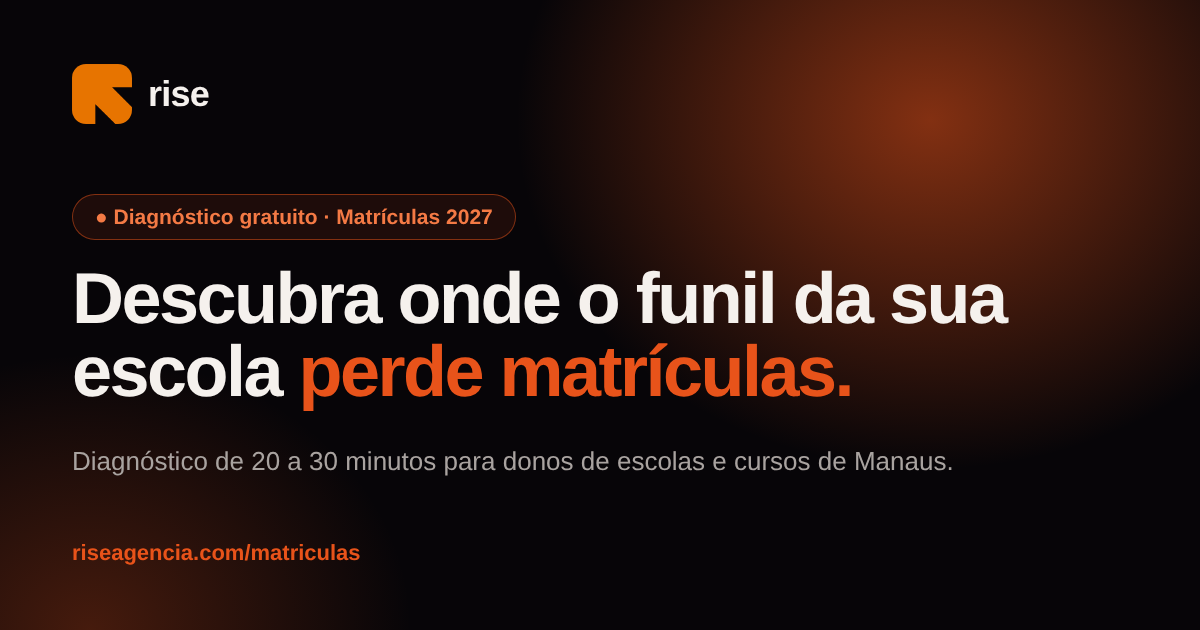
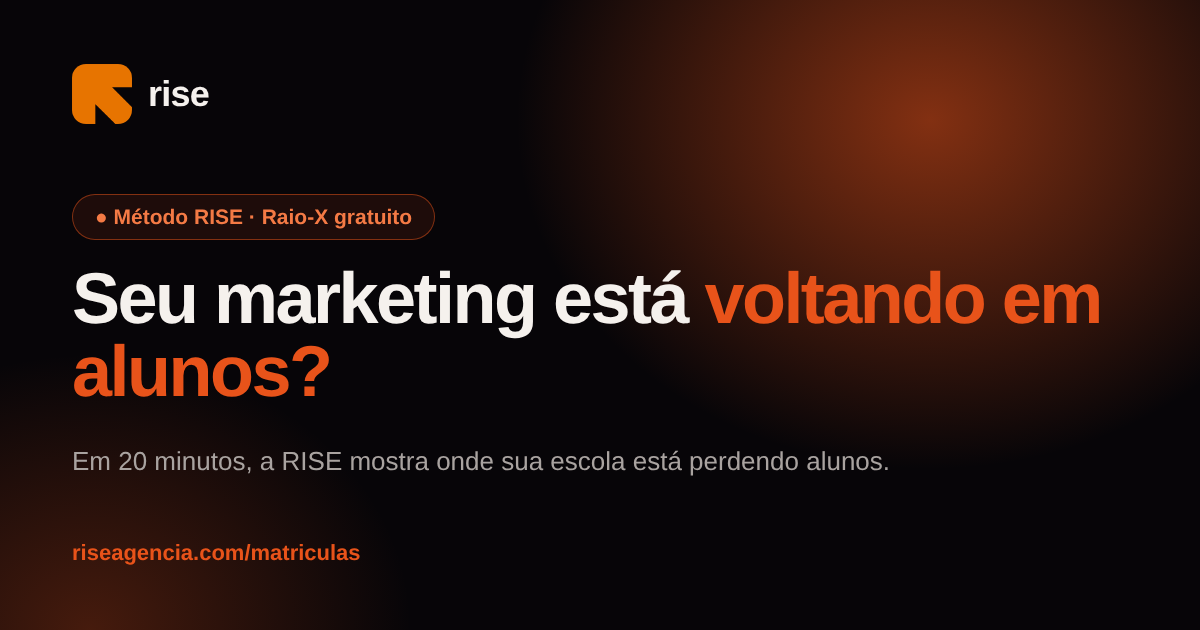
Matrículas: remove seções repetidas, foto do André no formulário e prévia (OG) nova (#28)
Claude-Session: https://claude.ai/code/session_015gBSKCngSTRmqeM1JmA279

Changed region(s): [[0.0617, 0.4222, 0.925, 0.6635], [0.0617, 0.6937, 0.8017, 0.754], [0.0925, 0.3317, 0.4317, 0.3619]]

diff --git a/matriculas/index.html b/matriculas/index.html
@@ -11,17 +11,17 @@
 <meta property="og:site_name" content="RISE">
 <meta property="og:locale" content="pt_BR">
 <meta property="og:url" content="https://riseagencia.com/matriculas/">
-<meta property="og:title" content="Descubra onde o funil da sua escola perde matrículas">
-<meta property="og:description" content="Diagnóstico gratuito de 20 a 30 minutos para escolas e cursos de Manaus. Matrículas 2027.">
+<meta property="og:title" content="Seu marketing está voltando em alunos? Raio-X gratuito | Método RISE">
+<meta property="og:description" content="Em 20 minutos, a RISE mostra onde sua escola está perdendo alunos. Raio-X gratuito para escolas e cursos de Manaus.">
 <meta property="og:image" content="https://riseagencia.com/og-matriculas.png">
 <meta property="og:image:secure_url" content="https://riseagencia.com/og-matriculas.png">
 <meta property="og:image:type" content="image/png">
 <meta property="og:image:width" content="1200">
 <meta property="og:image:height" content="630">
-<meta property="og:image:alt" content="Diagnóstico gratuito para escolas: descubra onde o funil perde matrículas. RISE, Matrículas 2027">
+<meta property="og:image:alt" content="Seu marketing está voltando em alunos? Raio-X gratuito do Método RISE para escolas de Manaus">
 <meta name="twitter:card" content="summary_large_image">
-<meta name="twitter:title" content="Descubra onde o funil da sua escola perde matrículas">
-<meta name="twitter:description" content="Diagnóstico gratuito de 20 a 30 minutos para escolas e cursos de Manaus. Matrículas 2027.">
+<meta name="twitter:title" content="Seu marketing está voltando em alunos? Raio-X gratuito | Método RISE">
+<meta name="twitter:description" content="Em 20 minutos, a RISE mostra onde sua escola está perdendo alunos. Raio-X gratuito para escolas e cursos de Manaus.">
 <meta name="twitter:image" content="https://riseagencia.com/og-matriculas.png">
 <meta name="theme-color" content="#070508">
 <link rel="icon" type="image/png" href="https://riseagencia.com/favicon.png">
@@ -471,6 +471,10 @@ section.frase{padding:0 0 clamp(36px,5vw,64px);border-top:0}
 @media (max-width:900px){.hist-btn{width:100%}}
 .bloco .hvid .vcap{justify-content:center}
 @media (min-width:901px){.bloco .num{text-align:center}.vintro,.bloco-form .intro{text-align:center}}
+.quem{display:flex;align-items:center;gap:12px;justify-content:center;margin-bottom:14px}
+.quem img{width:56px;height:56px;border-radius:50%;object-fit:cover;border:2px solid #E8531A;flex:none}
+.quem p{font-size:.875rem;color:var(--paper-dm);text-align:left;line-height:1.4}
+.quem b{color:var(--paper-tx)}
 </style>
 <script async src="https://www.googletagmanager.com/gtag/js?id=G-0ZZ46BRRSL"></script>
 <script>window.dataLayer=window.dataLayer||[];function gtag(){dataLayer.push(arguments);}gtag("js",new Date());gtag("config","G-0ZZ46BRRSL");</script>
@@ -553,6 +557,7 @@ section.frase{padding:0 0 clamp(36px,5vw,64px);border-top:0}
       <div class="hform">
         <div class="cartao alvo" id="cartao">
         <div class="intro" id="diagnostico">
+          <div class="quem"><img src="/matriculas/andre.jpg" alt="André Molinari, da RISE" width="56" height="56" loading="lazy"><p><b>Quem vai falar com você:</b> André, da RISE, aqui em Manaus.</p></div>
           <h2>Vamos conversar?</h2>
           <p class="lead">Leva menos de um minuto. O André, da RISE, chama você no WhatsApp para combinar o horário.</p>
         </div>
@@ -588,79 +593,6 @@ section.frase{padding:0 0 clamp(36px,5vw,64px);border-top:0}
         </div>
       </div>
   </div></section>
-
-  <section class="frase">
-    <div class="wrap">
-      <p><strong>As matrículas de 2027 se decidem entre novembro e janeiro.</strong> Quem organiza o atendimento agora entra em janeiro na frente.</p>
-    </div>
-  </section>
-
-  
-
-  <section class="alt">
-    <div class="wrap">
-      <div class="topo-sec">
-        <span class="eye">O problema</span>
-        <h2>Onde as matrículas costumam se perder</h2>
-      </div>
-      <div class="grade">
-        <div class="card"><span class="n">01</span><strong>O clique não vira contato</strong><span class="t">O anúncio leva para uma página que não explica a escola nem mostra o próximo passo.</span></div>
-        <div class="card"><span class="n">02</span><strong>A mensagem fica sem resposta</strong><span class="t">O interessado escreve à noite ou no fim de semana e só é respondido horas depois.</span></div>
-        <div class="card"><span class="n">03</span><strong>Ninguém acompanha quem ficou de voltar</strong><span class="t">Quem pediu um tempo para pensar não recebe um segundo contato, e a matrícula vai para outra escola.</span></div>
-        <div class="card"><span class="n">04</span><strong>Os contatos ficam espalhados</strong><span class="t">Conversas no WhatsApp, planilhas e cadernos: ninguém enxerga o processo inteiro.</span></div>
-        <div class="card full"><span class="n">05</span><strong>Ninguém sabe quanto o anúncio rende</strong><span class="t">Sem registrar de onde cada contato veio, não dá para saber qual campanha trouxe matrícula.</span></div>
-      </div>
-    </div>
-  </section>
-
-  <section>
-    <div class="wrap prova">
-      <div>
-        <span class="eye">Na prática</span>
-        <h2>Já funciona na prática</h2>
-      </div>
-      <div>
-        <span class="selo">Case · My Robot Manaus</span>
-        <p>O Método RISE foi montado primeiro para a <strong>My Robot Manaus</strong>. Tráfego, site, captação, atendimento e acompanhamento até a matrícula passaram a funcionar como um único funil, medido do anúncio à matrícula.</p>
-        <p>É esse mesmo modelo que a RISE aplica agora em outras escolas e cursos.</p>
-        <!-- Quando a Joice enviar os números validados do case, entram aqui (cartões com resultado). Não inventar dados. -->
-      </div>
-    </div>
-  </section>
-
-  <section class="alt">
-    <div class="wrap dois">
-      <div>
-        <span class="eye">O método</span>
-        <h2>O Método RISE cuida do caminho inteiro</h2>
-        <p class="lead">Em vez de contratar tráfego, site e atendimento separados, a escola conta com uma equipe responsável pelas cinco etapas, na ordem em que o interessado as percorre.</p>
-        <ol class="funil" aria-label="As cinco etapas do caminho do interessado até a matrícula">
-          <li>Tráfego</li><li>Site</li><li>Captação de leads</li><li>Atendimento</li><li>Conversão</li>
-        </ol>
-      </div>
-      <ol class="etapas">
-        <li><div><strong>Tráfego</strong><span>Anúncios que levam pais e alunos para uma página feita para a matrícula.</span></div></li>
-        <li><div><strong>Site</strong><span>Uma página clara, com cursos, valores e o próximo passo à vista.</span></div></li>
-        <li><div><strong>Captação de leads</strong><span>Formulário curto que registra o contato e o anúncio de onde ele veio.</span></div></li>
-        <li><div><strong>Atendimento</strong><span>Resposta no WhatsApp e acompanhamento de quem ficou de voltar.</span></div></li>
-        <li><div><strong>Conversão</strong><span>Acompanhamento até a matrícula, para saber o que cada campanha trouxe.</span></div></li>
-      </ol>
-    </div>
-  </section>
-
-  <section>
-    <div class="wrap">
-      <div class="topo-sec">
-        <span class="eye">Como funciona</span>
-        <h2>Três passos, sem complicação</h2>
-      </div>
-      <ol class="passos">
-        <li><strong>Você preenche o formulário</strong><span>Menos de um minuto, com o nome da escola e o seu WhatsApp.</span></li>
-        <li><strong>Combinamos o horário</strong><span>Chamamos você no WhatsApp para marcar o Raio-X.</span></li>
-        <li><strong>Fazemos o Raio-X</strong><span>De 20 a 30 minutos. Você sai com o caminho do seu aluno desenhado e as 3 correções mais urgentes.</span></li>
-      </ol>
-    </div>
-  </section>
 
   <section class="alt">
     <div class="wrap">
